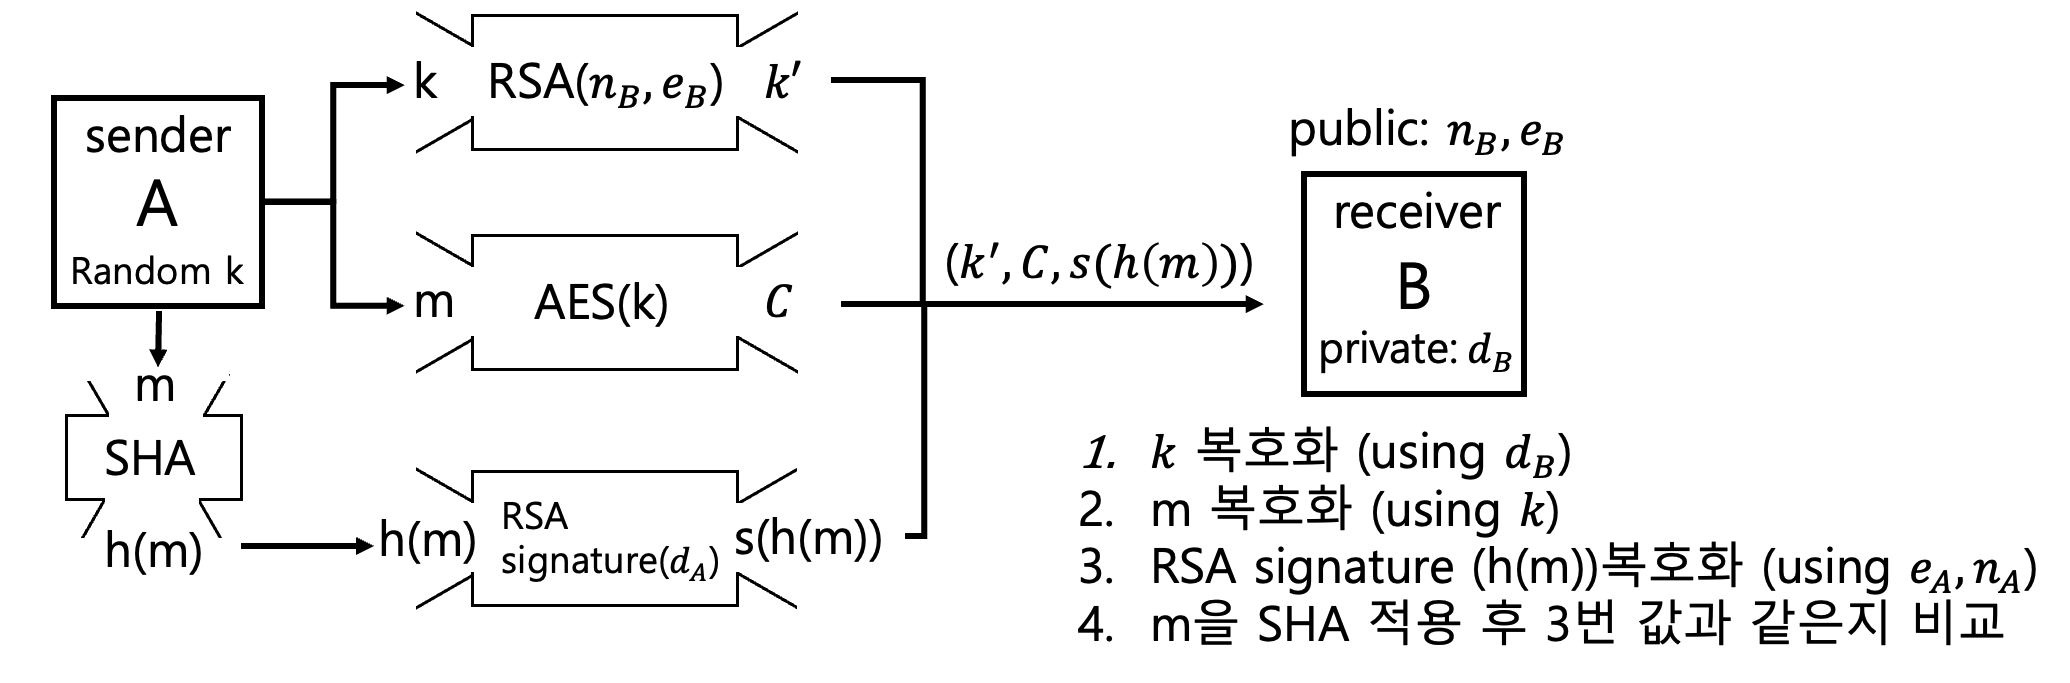
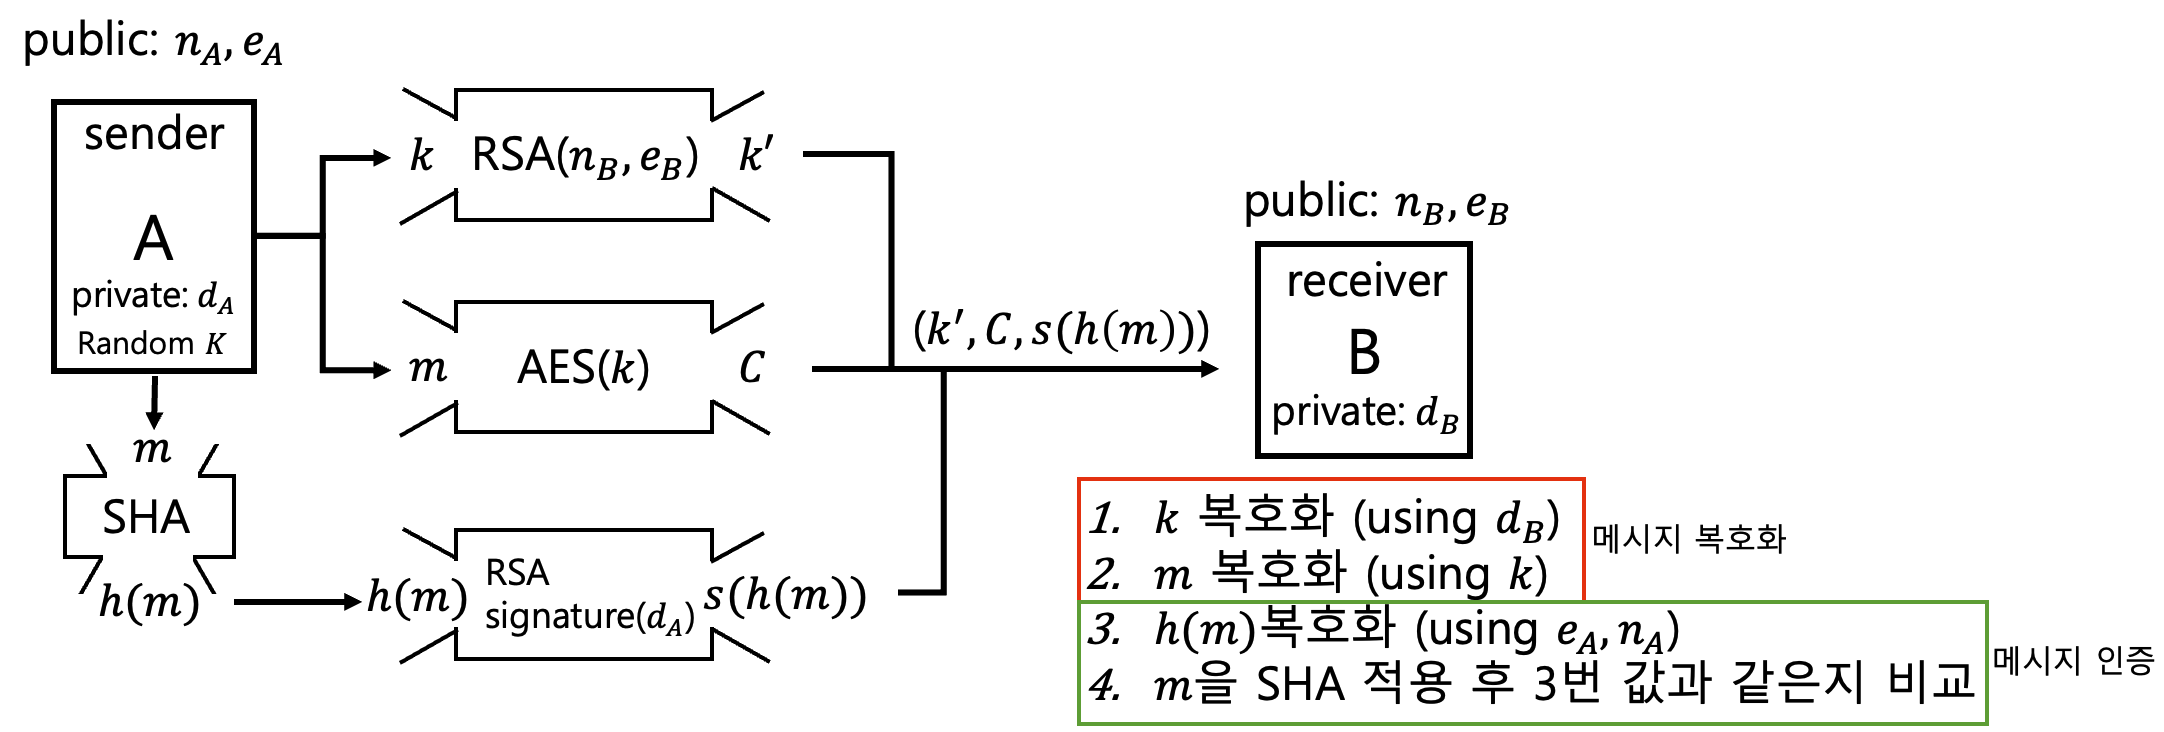
post: Digital Envelope

diff --git a/_posts/2024-12-23-digital_envelope.md b/_posts/2024-12-23-digital_envelope.md
@@ -1,0 +1,53 @@
+---
+title: "Digital Envelope"
+date: 2024-12-23 10:00:00 +09:00
+categories: [암호학]
+tags:
+  [
+     암호학, cryptography
+  ]
+math: true
+img_path: /assets/img/cryptography/
+---
+
+## Hybrid crypto system
+- 상황 : $A$가 $B$에게 메시지 $m$을 보내자
+  - $B$가 공개한 key : $n_B, e_B$
+  - $B$의 비밀키 : $d_B$
+
+![](4.png)
+
+Step1. $A$는 랜덤한 $k$를 만들어서 AES로 암호화 함 (대칭키)
+
+- $m \rightarrow AES(k)\rightarrow C$
+- 이때 $k$를 '세션키'라고 부르기도 함
+
+Step2. $K$를 RSA로 암호화하는데, 이때 $B$의 공개키인 $n_B, e_B$를 사용한다. (비대칭키)
+
+- $K \rightarrow RSA(n_B, e_B) \rightarrow K'$
+
+Step3. 이제 $A$가 $B$에게 $(K', C)$를 보낸다.
+
+Step4. $B$는 개인키를 이용해 $K$를 얻은 후, $C$를 AES 복호화해서 $m$을 얻는다.
+
+Step5. 이후부터는 메시지를 대칭키(k)를 이용해 암호화하여 전송
+
+- **RSA encrypts only the Key for AES**
+  - key exchange
+  - [RSA](https://redcarrot1.github.io/posts/RSA/), [Diffie-Hellman](https://redcarrot1.github.io/posts/Diffie-Hellman,ElGamal/#diffie-hellman-key-exchange), [ElGamal](https://redcarrot1.github.io/posts/Diffie-Hellman,ElGamal/#elgamal), ...
+- **AES encrypts the Message**
+  - [Symmetric key Cryptography](https://redcarrot1.github.io/posts/symmetric_key_cryptography/)
+  - DES, 3DES, AES, ...
+
+
+<br>
+
+## Digital Envelope
+
+- RSA encrypts only the Key for AES
+- AES encrypts the Message
+- SHA hashes the Message
+- RSA makes Signature with Hash Value
+- *RSA, AES, SHA, RSA Signature는 메커니즘의 한 구현 방법일 뿐이다.
+  
+![](5.png)
